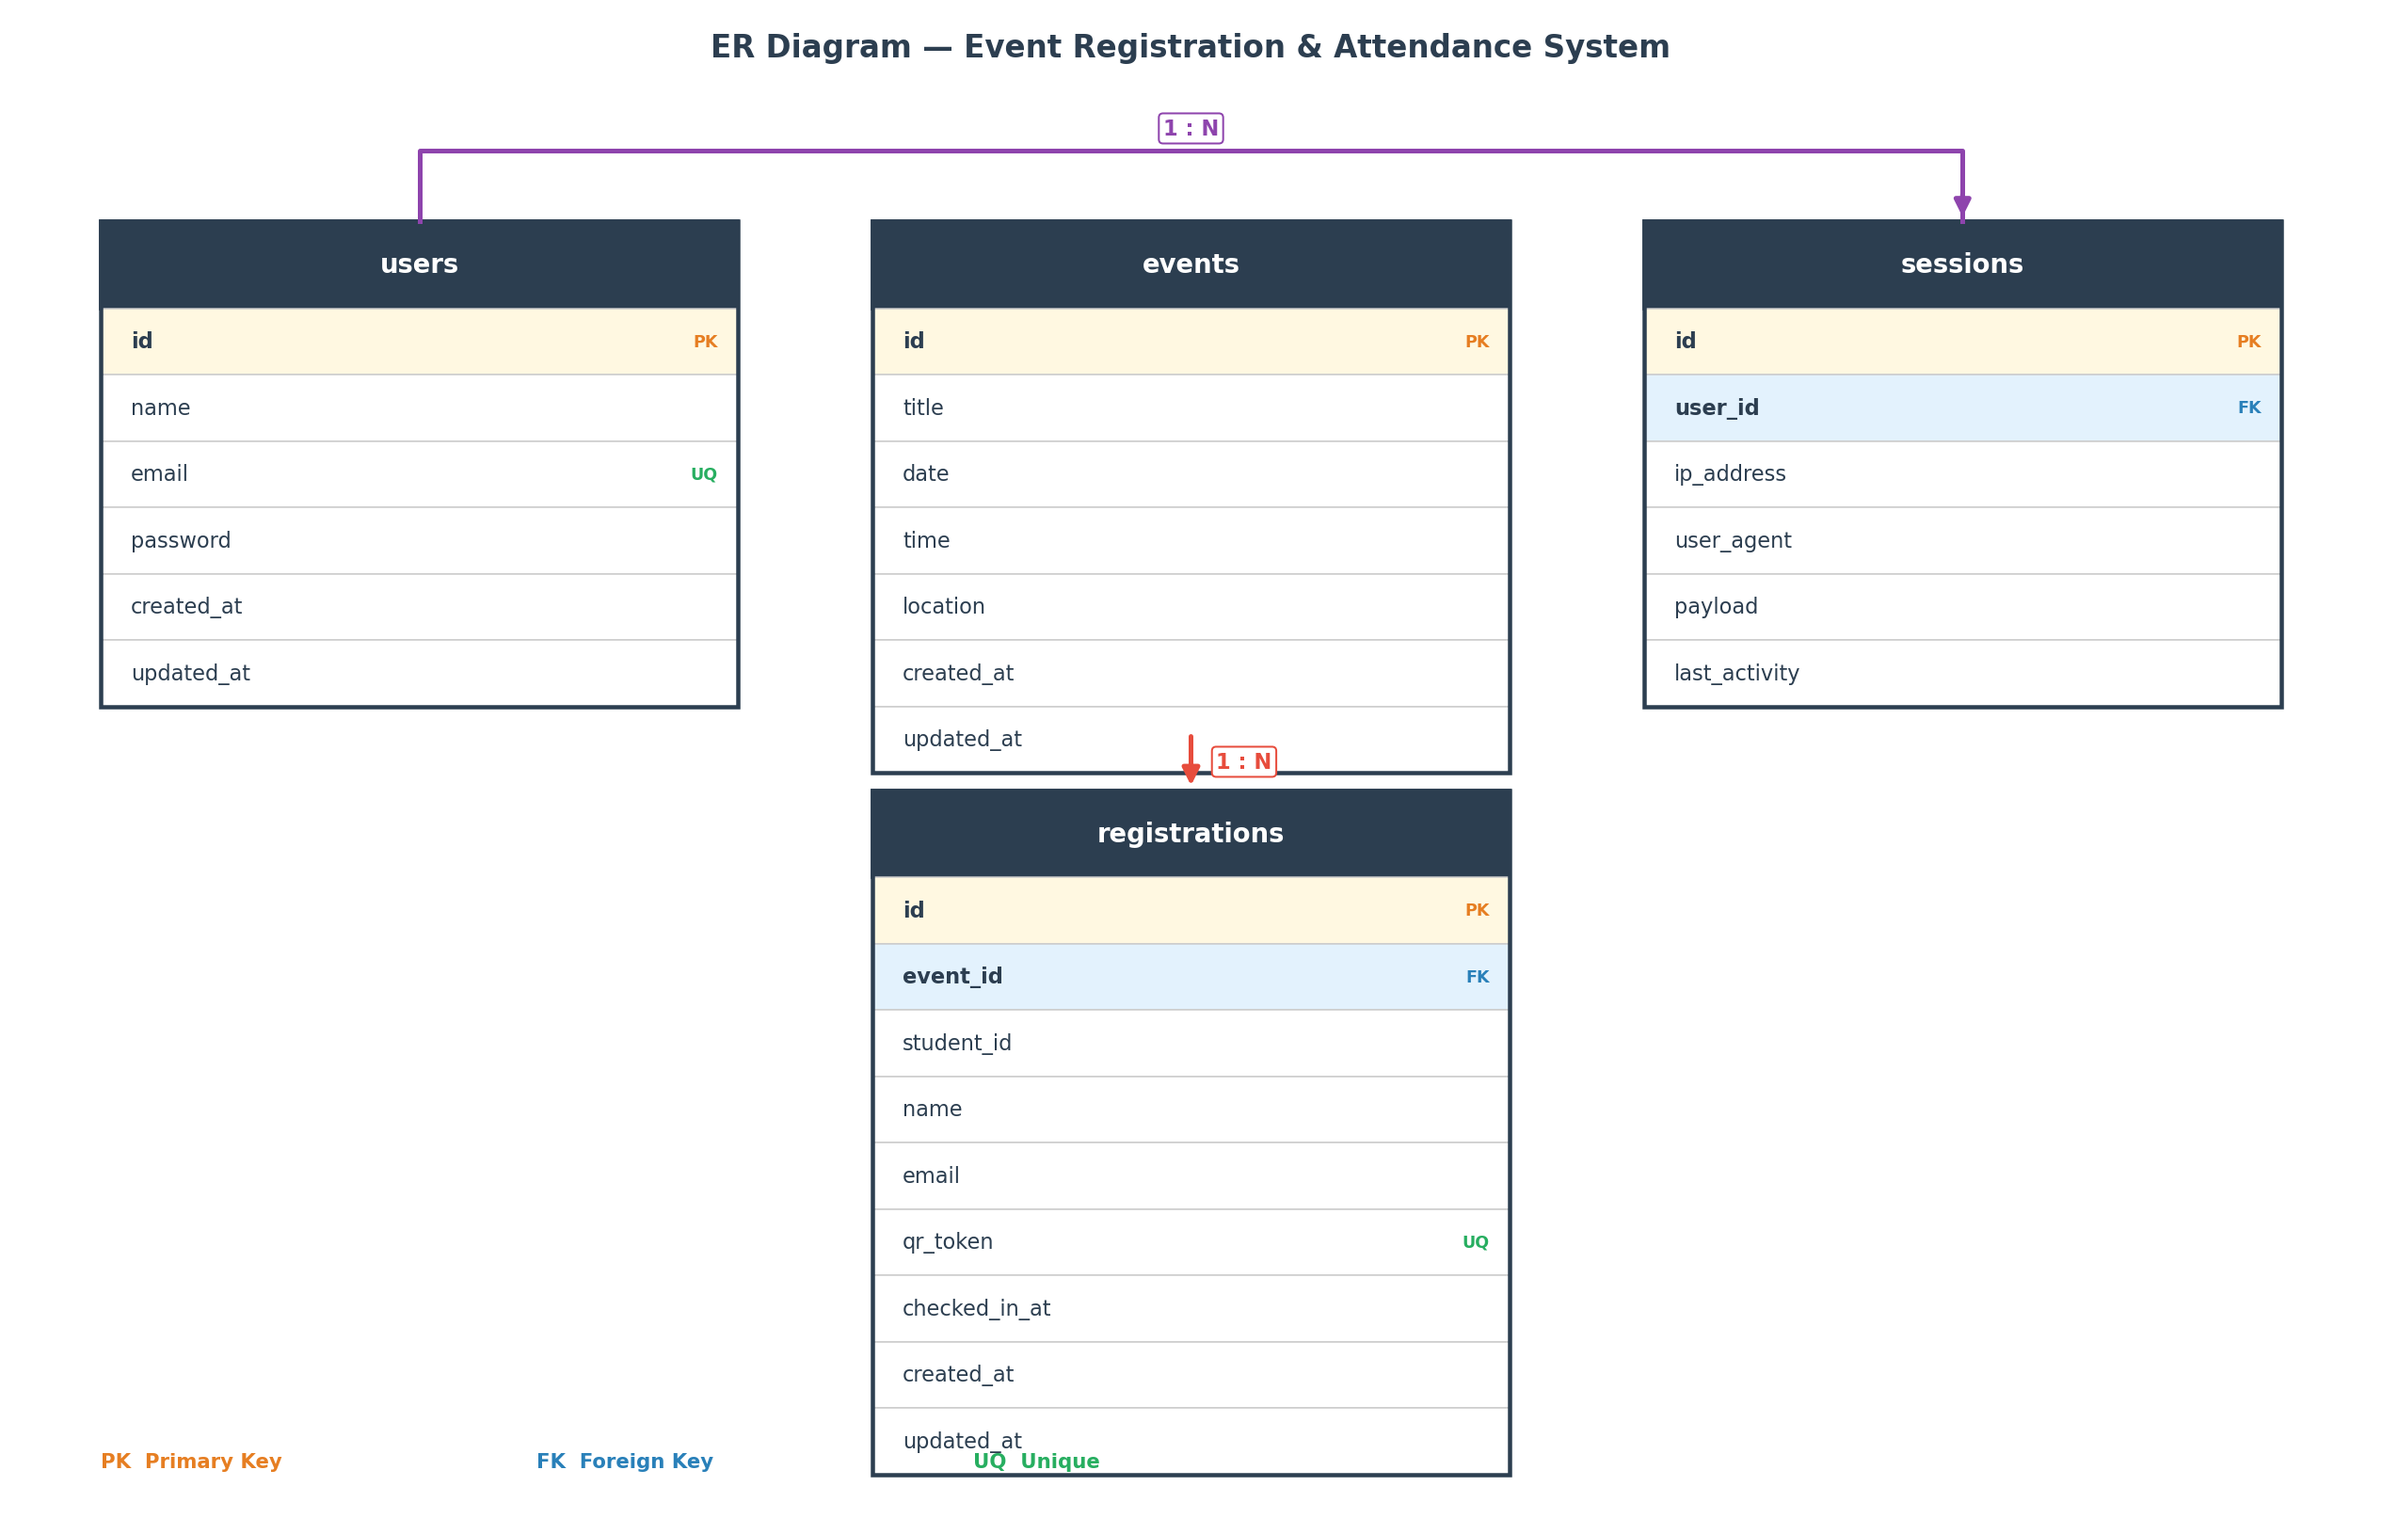
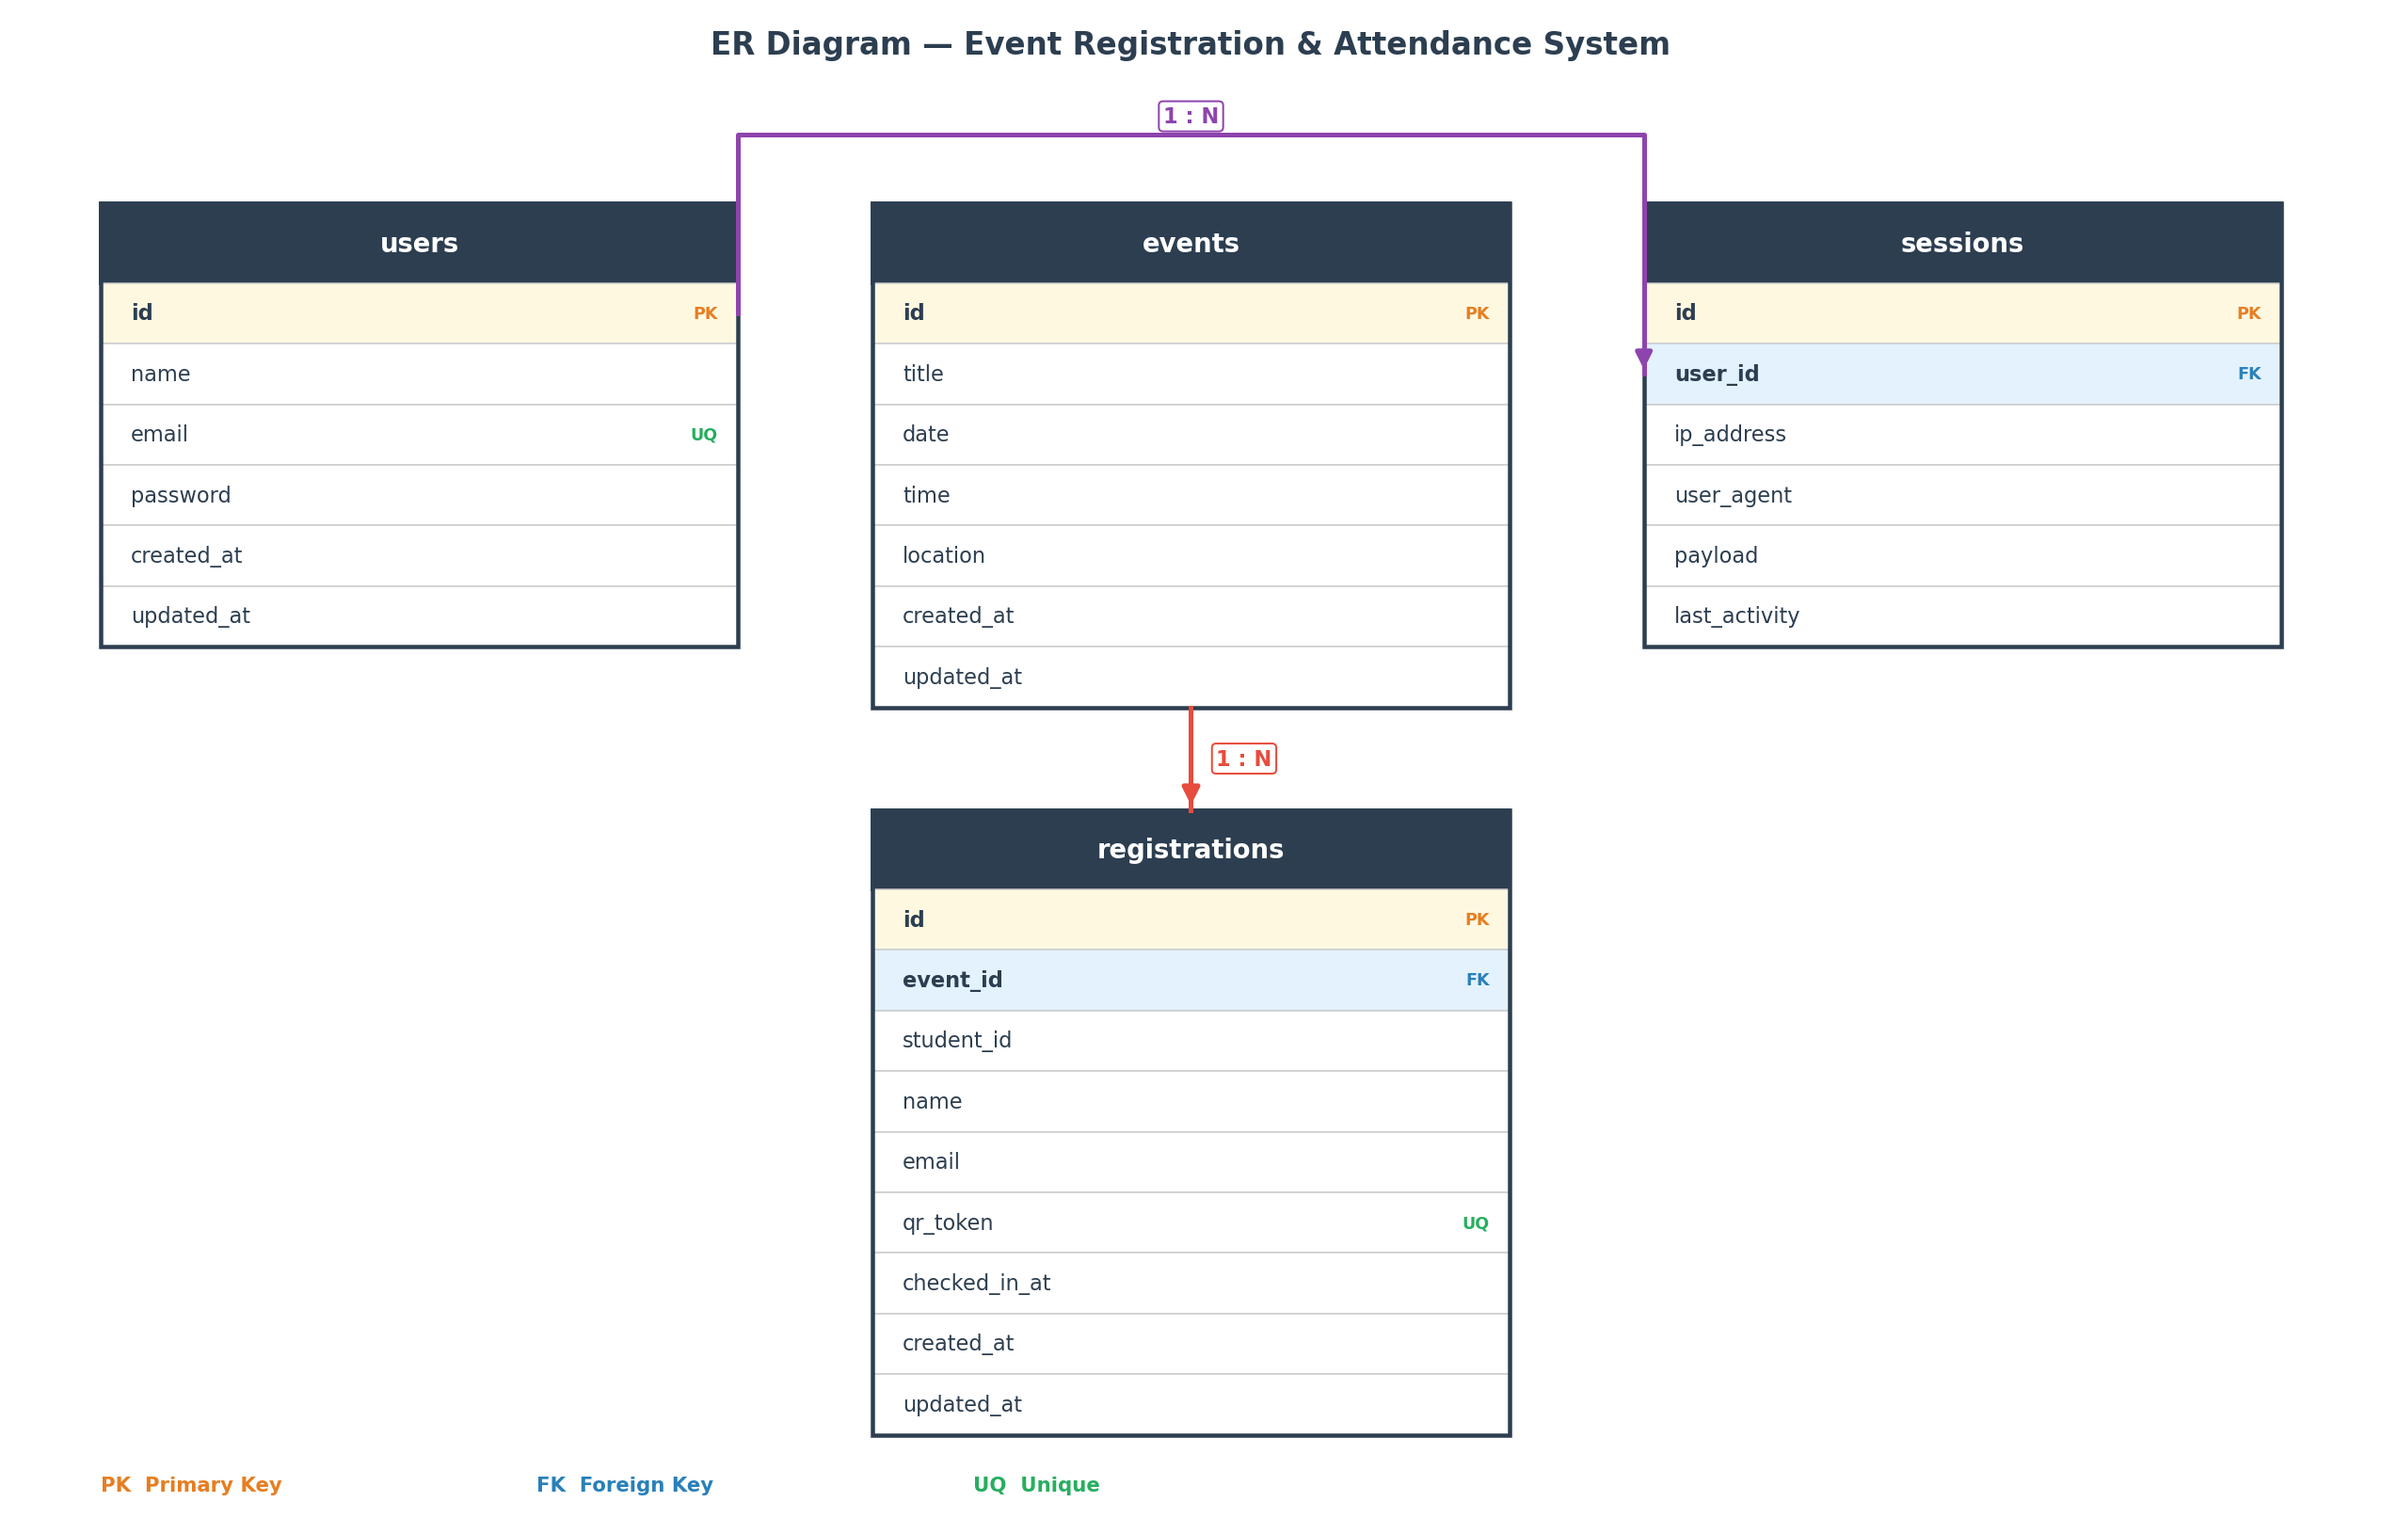
Fix ER diagram arrow connection points and layout
- Connect users.id → sessions.user_id (correct FK row target)
- Connect events bottom → registrations top with visible gap
- Move registrations table down to avoid overlap with events
- Fix legend position below all tables

https://claude.ai/code/session_016U11S2JPwnhidaoirrfKkA

diff --git a/generate_er_diagram.py b/generate_er_diagram.py
@@ -3,7 +3,7 @@ import matplotlib.patches as patches
 
 fig, ax = plt.subplots(figsize=(14, 9))
 ax.set_xlim(0, 14)
-ax.set_ylim(0, 9.5)
+ax.set_ylim(-0.9, 9.5)
 ax.axis('off')
 fig.patch.set_facecolor('white')
 
@@ -69,7 +69,7 @@ regs = [
     ('name', ''), ('email', ''), ('qr_token', 'UQ'),
     ('checked_in_at', ''), ('created_at', ''), ('updated_at', ''),
 ]
-draw_table(ax, 5.1, 4.6, 3.8, 'registrations', regs)
+draw_table(ax, 5.1, 4.0, 3.8, 'registrations', regs)
 
 # ── SESSIONS (right) ─────────────────────────────────────────────
 sessions = [
@@ -78,20 +78,39 @@ sessions = [
 ]
 draw_table(ax, 9.7, 8.2, 3.8, 'sessions', sessions)
 
+# Row/header heights (must match draw_table)
+ROW_H = 0.42
+HDR_H = 0.55
+
 # ── RELATIONSHIPS ────────────────────────────────────────────────
-# events → registrations (1:N)  — straight down from bottom of events to top of registrations
-ax.annotate('', xy=(7.0, 4.6), xytext=(7.0, 4.97),
+# events.id (PK) → registrations.event_id (FK)  1:N  straight down
+# events bottom: 8.2 - (0.55 + 7*0.42) = 4.71
+# registrations top: 4.0
+events_bottom = 8.2 - (HDR_H + 7 * ROW_H)   # 4.71
+regs_top      = 4.0
+mid_x         = 7.0  # centre of both tables
+
+ax.plot([mid_x, mid_x], [events_bottom, regs_top], color='#E74C3C', lw=2, zorder=5)
+ax.annotate('', xy=(mid_x, regs_top), xytext=(mid_x, regs_top + 0.18),
             arrowprops=dict(arrowstyle='-|>', color='#E74C3C', lw=2, mutation_scale=15), zorder=5)
-ax.text(7.15, 4.78, '1 : N', ha='left', va='center', fontsize=9, fontweight='bold',
-        color='#E74C3C',
+ax.text(mid_x + 0.15, (events_bottom + regs_top) / 2, '1 : N',
+        ha='left', va='center', fontsize=9, fontweight='bold', color='#E74C3C',
         bbox=dict(facecolor='white', edgecolor='#E74C3C', boxstyle='round,pad=0.2', lw=0.8), zorder=6)
 
-# users → sessions (1:N)  — route above all tables (U-shaped path)
+# users.id (PK) → sessions.user_id (FK)  1:N  U-shaped above tables
+# users.id  center y = 8.2 - 0.55 - 0.5*0.42 = 7.44,  right edge x = 4.3
+# sessions.user_id center y = 8.2 - 0.55 - 1.5*0.42 = 7.02, left edge x = 9.7
+users_id_y       = 8.2 - HDR_H - 0.5 * ROW_H   # 7.44
+sessions_uid_y   = 8.2 - HDR_H - 1.5 * ROW_H   # 7.02
+route_y          = 8.68                          # above all table headers
+
 c = '#8E44AD'
-ax.plot([2.4, 2.4, 11.6, 11.6], [8.2, 8.65, 8.65, 8.2], color=c, lw=2, zorder=5)
-ax.annotate('', xy=(11.6, 8.2), xytext=(11.6, 8.4),
+ax.plot([4.3, 4.3, 9.7, 9.7],
+        [users_id_y, route_y, route_y, sessions_uid_y],
+        color=c, lw=2, zorder=5)
+ax.annotate('', xy=(9.7, sessions_uid_y), xytext=(9.7, sessions_uid_y + 0.2),
             arrowprops=dict(arrowstyle='-|>', color=c, lw=2, mutation_scale=14), zorder=5)
-ax.text(7.0, 8.72, '1 : N', ha='center', va='bottom', fontsize=9, fontweight='bold',
+ax.text(7.0, route_y + 0.05, '1 : N', ha='center', va='bottom', fontsize=9, fontweight='bold',
         color=c,
         bbox=dict(facecolor='white', edgecolor=c, boxstyle='round,pad=0.2', lw=0.8), zorder=6)
 
@@ -106,7 +125,7 @@ legend_items = [
     ('#27AE60', 'UQ  Unique'),
 ]
 for i, (c, lbl) in enumerate(legend_items):
-    ax.text(0.5 + i * 2.6, 0.35, lbl, ha='left', va='center',
+    ax.text(0.5 + i * 2.6, -0.68, lbl, ha='left', va='center',
             fontsize=8.5, color=c, fontweight='bold')
 
 plt.tight_layout(pad=0.5)
